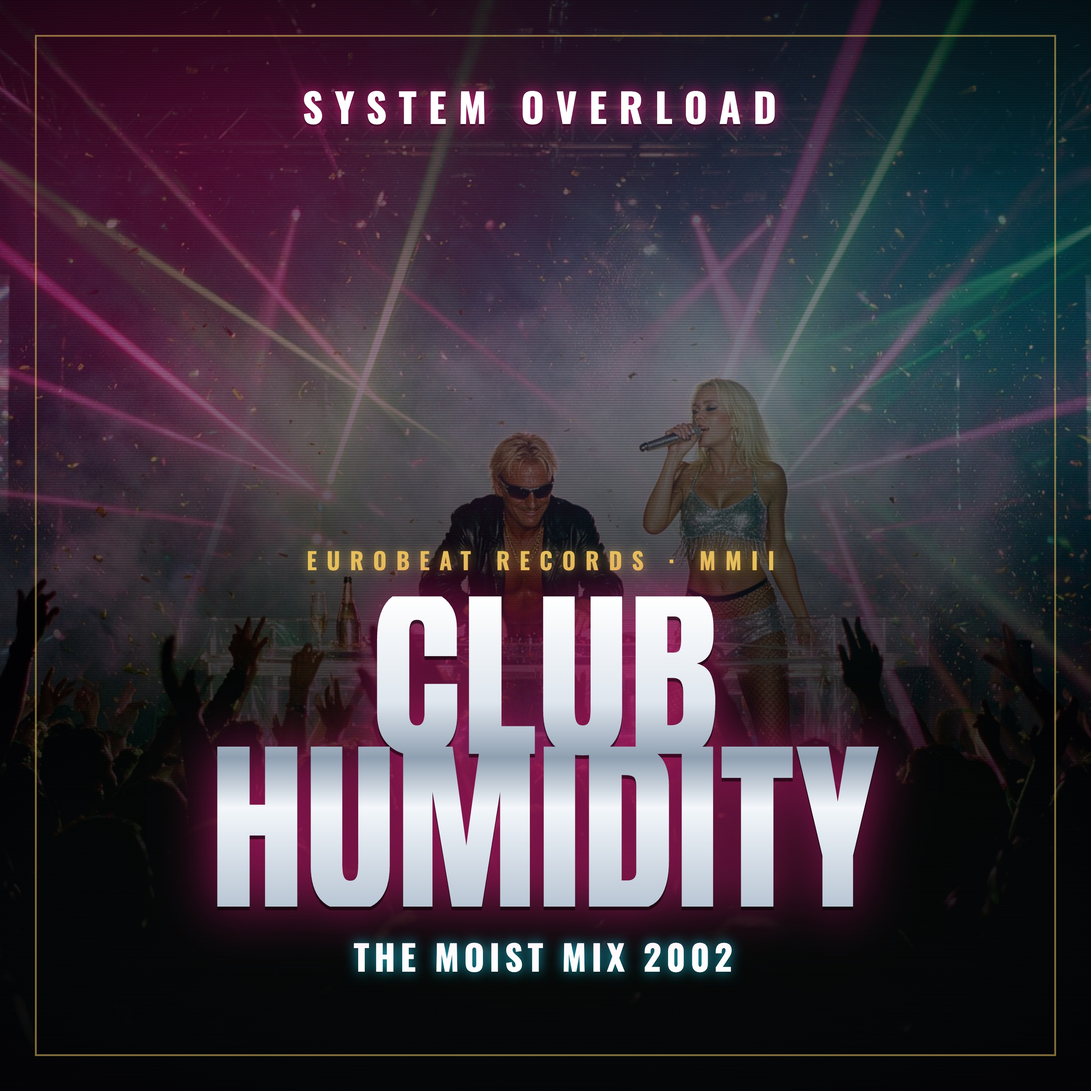
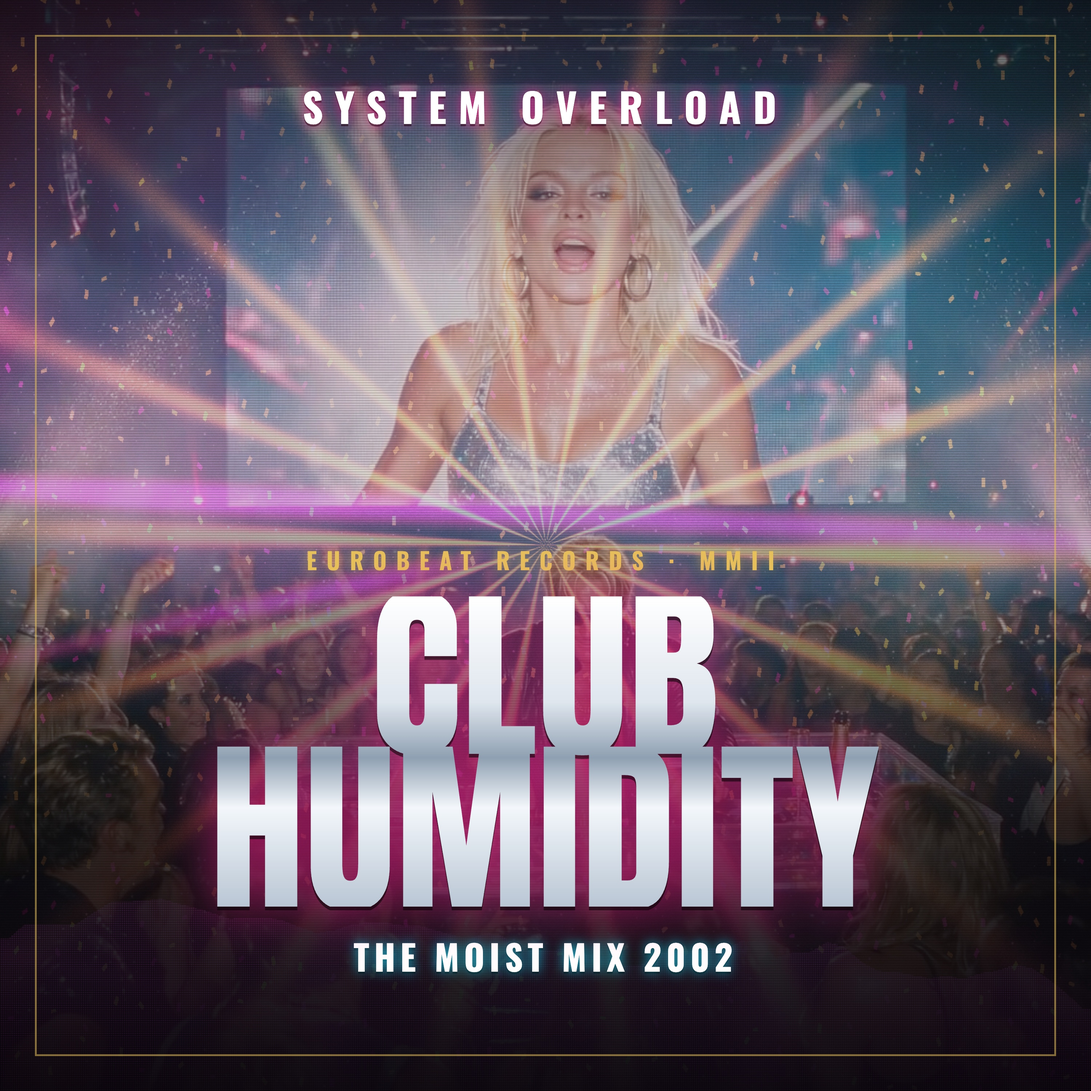
Album cover rebuilt on the live light rig — brighter, and the lasers are real
The first cover was too dark and used a static frame, so the best thing the site has — the rig —
was absent. artwork/grab.mjs now captures the RUNNING page at 1500x1500 @2x with the interface
stripped and the rig pushed, so the beams, bloom and haze on the sleeve are the actual shader
output rather than a still. brightness .52 -> .82, and the scrim only darkens the band the type
sits in instead of dimming the whole picture.

RENDERING THE SITE AT 1:1 AS THE COVER — TRIED, ABANDONED, AND WHY
It is the obvious idea and it produces a page rather than a sleeve. At 1500px the desktop
four-corner grid still applies, so the crest strands itself in a corner; the catalogue line lands
unreadable across the picture; and SYSTEM OVERLOAD does not appear at all, which is the one thing
album art must carry. The site's hero is composed to sit beside a player and a scroll cue. A
sleeve has different requirements — artist name, title, and nothing else competing — so it keeps
its own layout, and the site supplies the artwork.

Pipeline is two steps now, each doing one thing:
  node artwork/grab.mjs     capture the live rig  -> artwork/bg-rig.jpg   (gitignored)
  node artwork/render.mjs   compose the sleeve    -> artwork/club-humidity-cover-3000.jpg

Also refreshed public/assets/club-humidity-cover.jpg so the og:image square art matches.

diff --git a/artwork/cover.html b/artwork/cover.html
@@ -12,18 +12,23 @@
 
   /* The footage, pushed dark and cool so the type has somewhere to sit. Album art is read at
      64px in a phone list before it is ever seen large, so contrast beats detail. */
-  .bg { position:absolute; inset:0; background:url('bg.jpg') center 42%/cover no-repeat;
-        filter:brightness(.52) contrast(1.18) saturate(1.25); }
+  /* brightness(.82), not .52. The first pass crushed the picture to clear space for the type and
+     threw away the light rig with it — the beams ARE the artwork, so the type has to work around
+     them rather than the other way round. The source is now a live capture of the running rig
+     (artwork/grab.mjs), so the lasers, bloom and haze on the cover are the real thing. */
+  .bg { position:absolute; inset:0; background:url('bg-rig.jpg') center center/cover no-repeat;
+        filter:brightness(.82) contrast(1.12) saturate(1.4); }
   /* laser haze */
   .haze { position:absolute; inset:0;
     background:
       radial-gradient(120% 80% at 22% 12%, rgba(255,31,143,.55), transparent 58%),
       radial-gradient(110% 75% at 82% 20%, rgba(20,224,255,.38), transparent 60%),
       radial-gradient(130% 90% at 50% 108%, rgba(99,255,46,.30), transparent 62%);
-    mix-blend-mode:screen; }
+    mix-blend-mode:screen; opacity:.45; }
   /* a scrim so the title never fights the picture */
+  /* a scrim only where the type sits — the middle of the frame stays bright */
   .scrim { position:absolute; inset:0;
-    background:linear-gradient(180deg, rgba(4,3,8,.62) 0%, rgba(4,3,8,.12) 34%, rgba(4,3,8,.80) 78%, rgba(4,3,8,.95) 100%); }
+    background:linear-gradient(180deg, rgba(4,3,8,.55) 0%, rgba(4,3,8,0) 26%, rgba(4,3,8,0) 46%, rgba(4,3,8,.72) 76%, rgba(4,3,8,.93) 100%); }
   /* VHS scanlines, the same texture the site uses */
   .scan { position:absolute; inset:0; opacity:.16; mix-blend-mode:multiply;
     background:repeating-linear-gradient(0deg, rgba(0,0,0,.9) 0 3px, transparent 3px 7px); }
